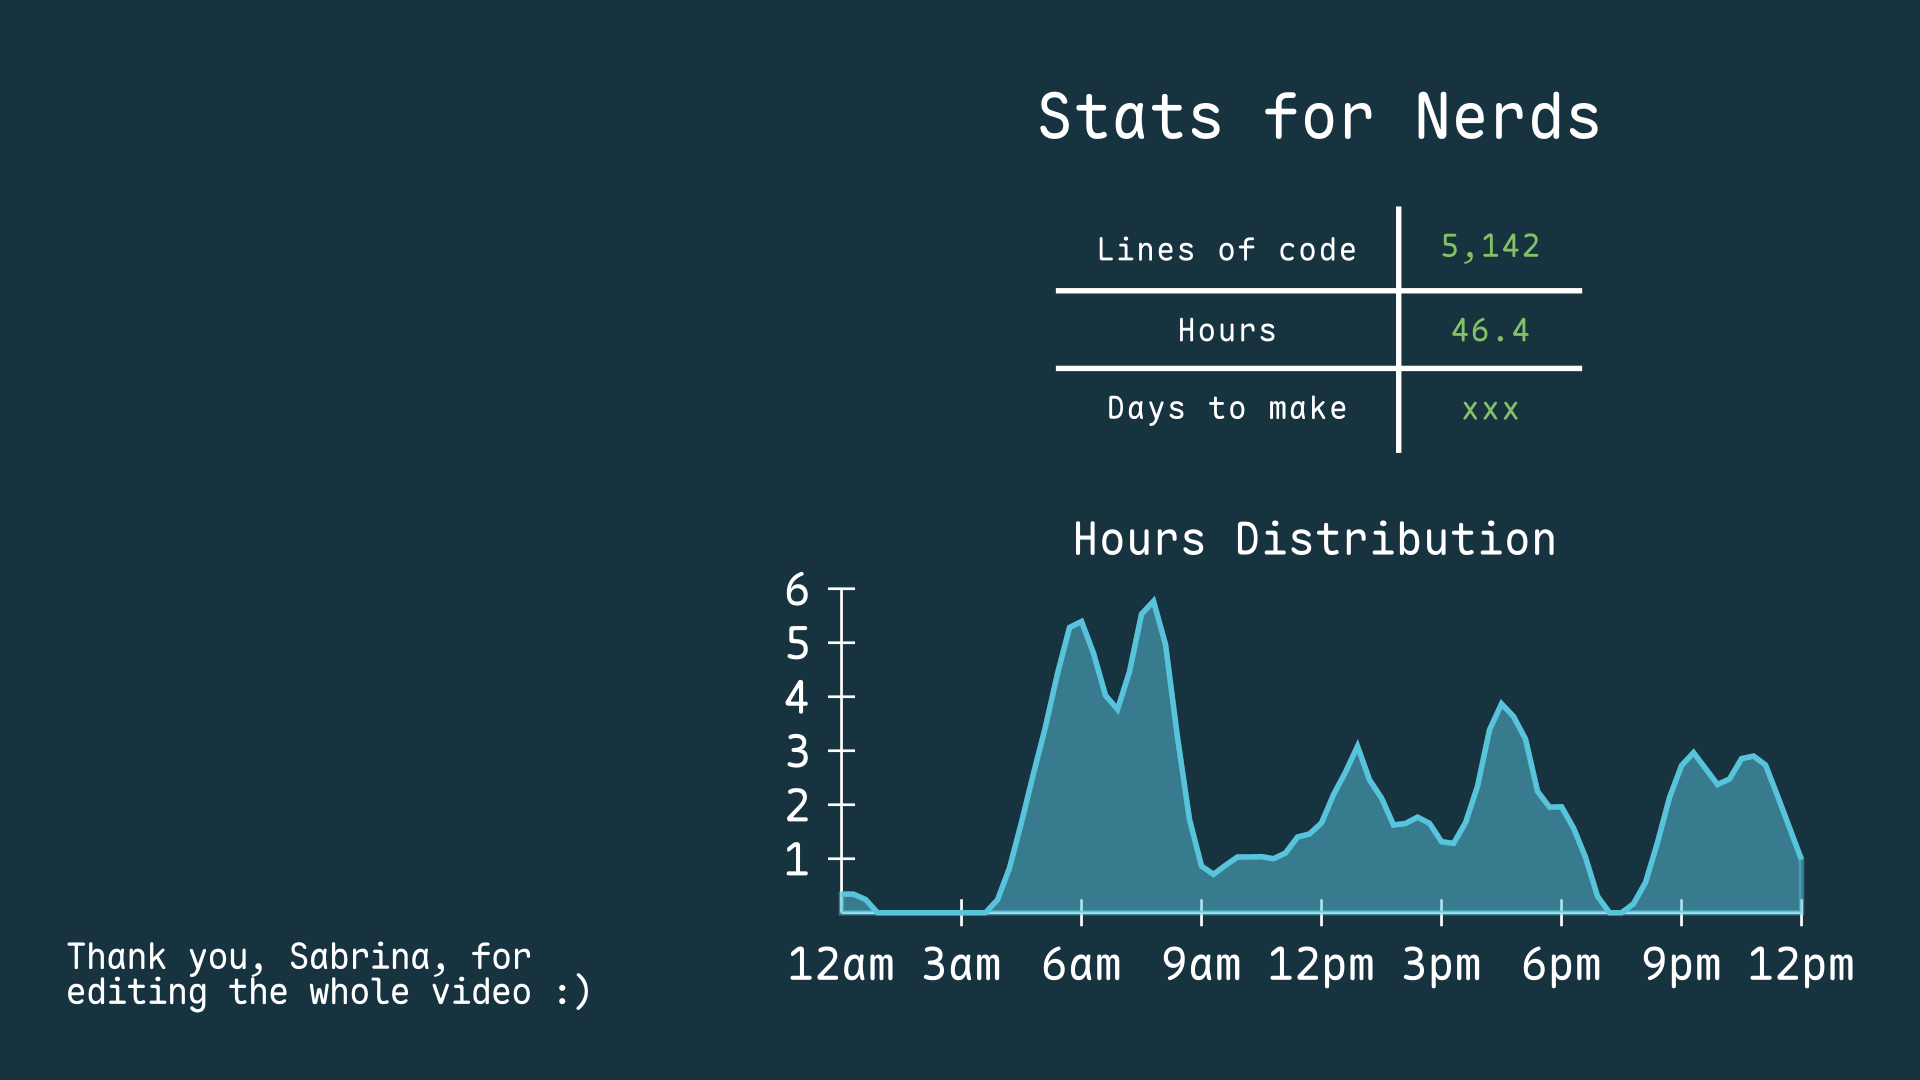
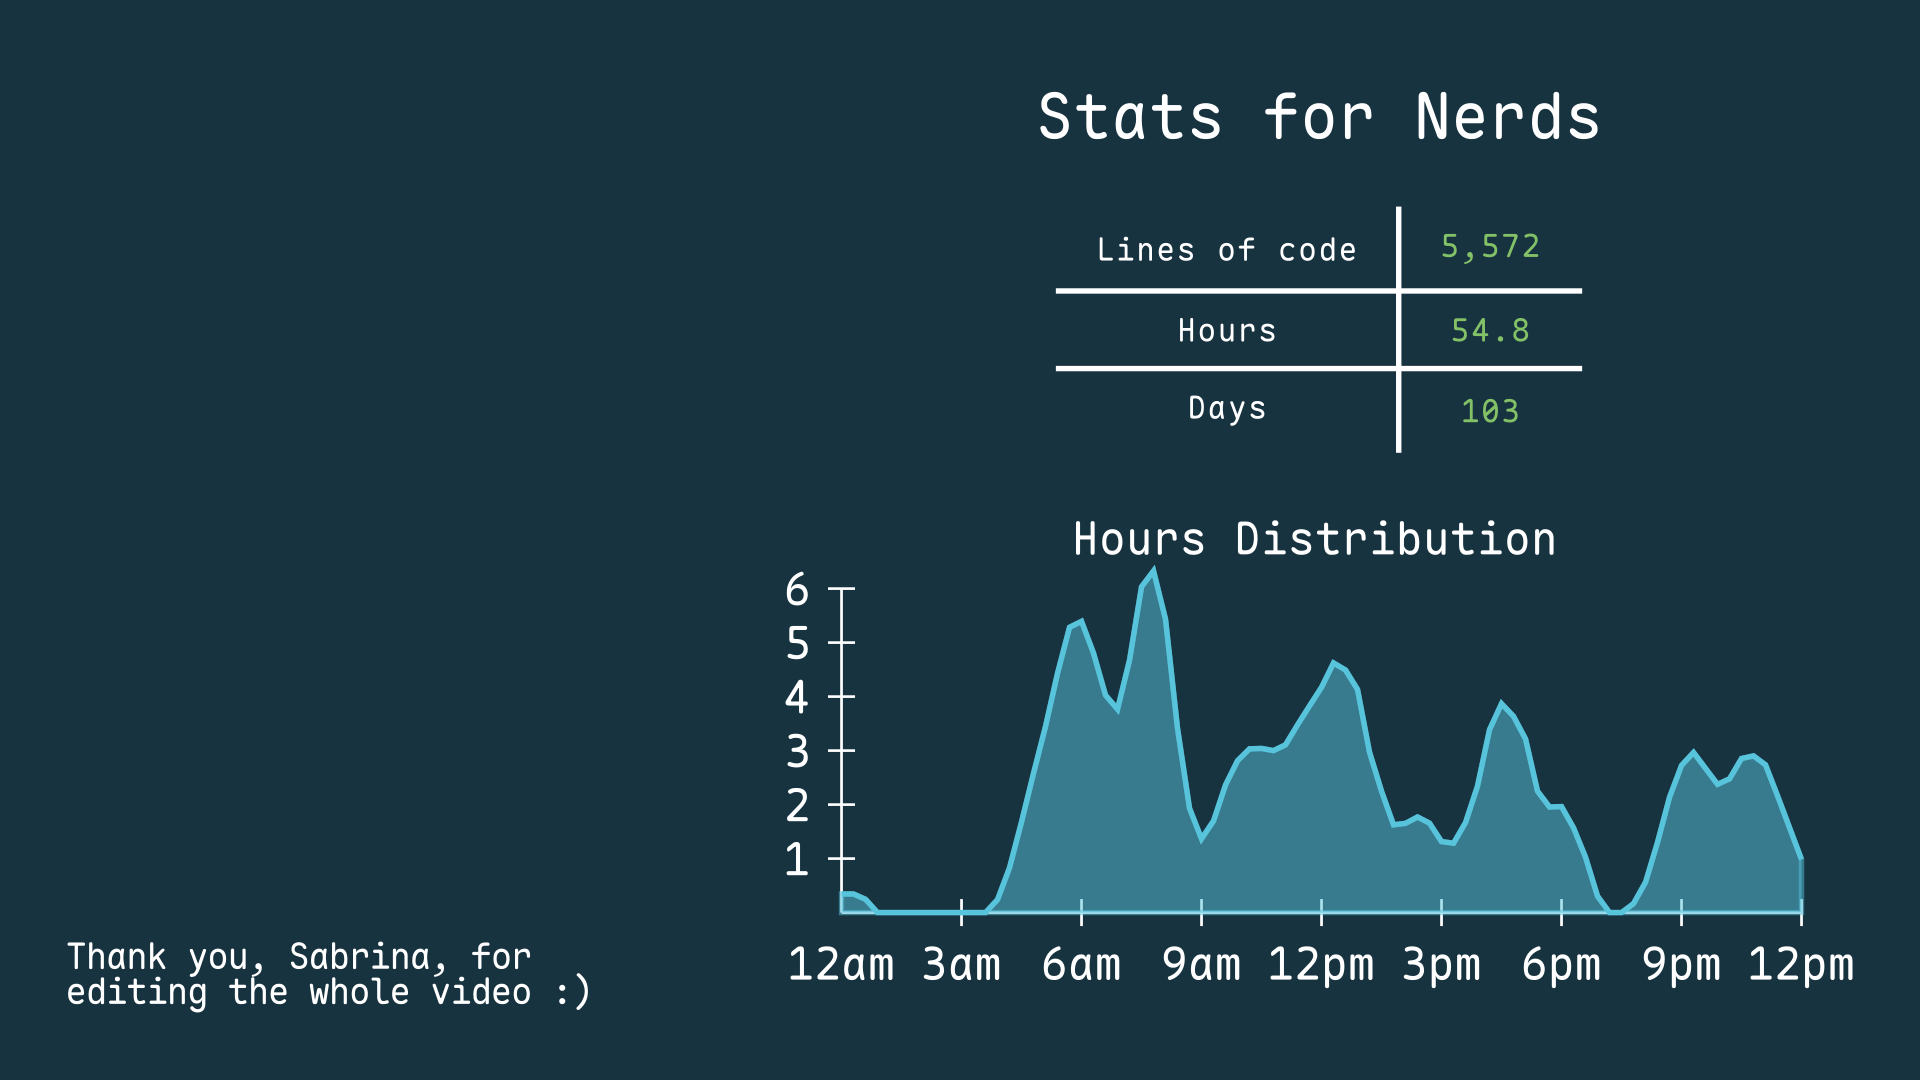
Updated endscreen

diff --git a/13_pulse_compression/pulse_compression.py b/13_pulse_compression/pulse_compression.py
@@ -5930,9 +5930,9 @@ class ThumbnailRendering2(MovingCameraScene):
 
 class EndScreen(MovingCameraScene):
     def construct(self):
-        hours = pd.read_csv("../../../Downloads/Work Hours 2025 (1).csv").dropna(
-            subset=["In", "Out", "Category Fill"]
-        )
+        hours = pd.read_csv(
+            "../../../downloads/Work Hours - Hours - 2025 (1).csv"
+        ).dropna(subset=["In", "Out", "Category Fill"])
         hours = hours[
             (hours["Category Fill"] == "Videos")
             & (hours["Video Fill"] == "Pulse Compression")